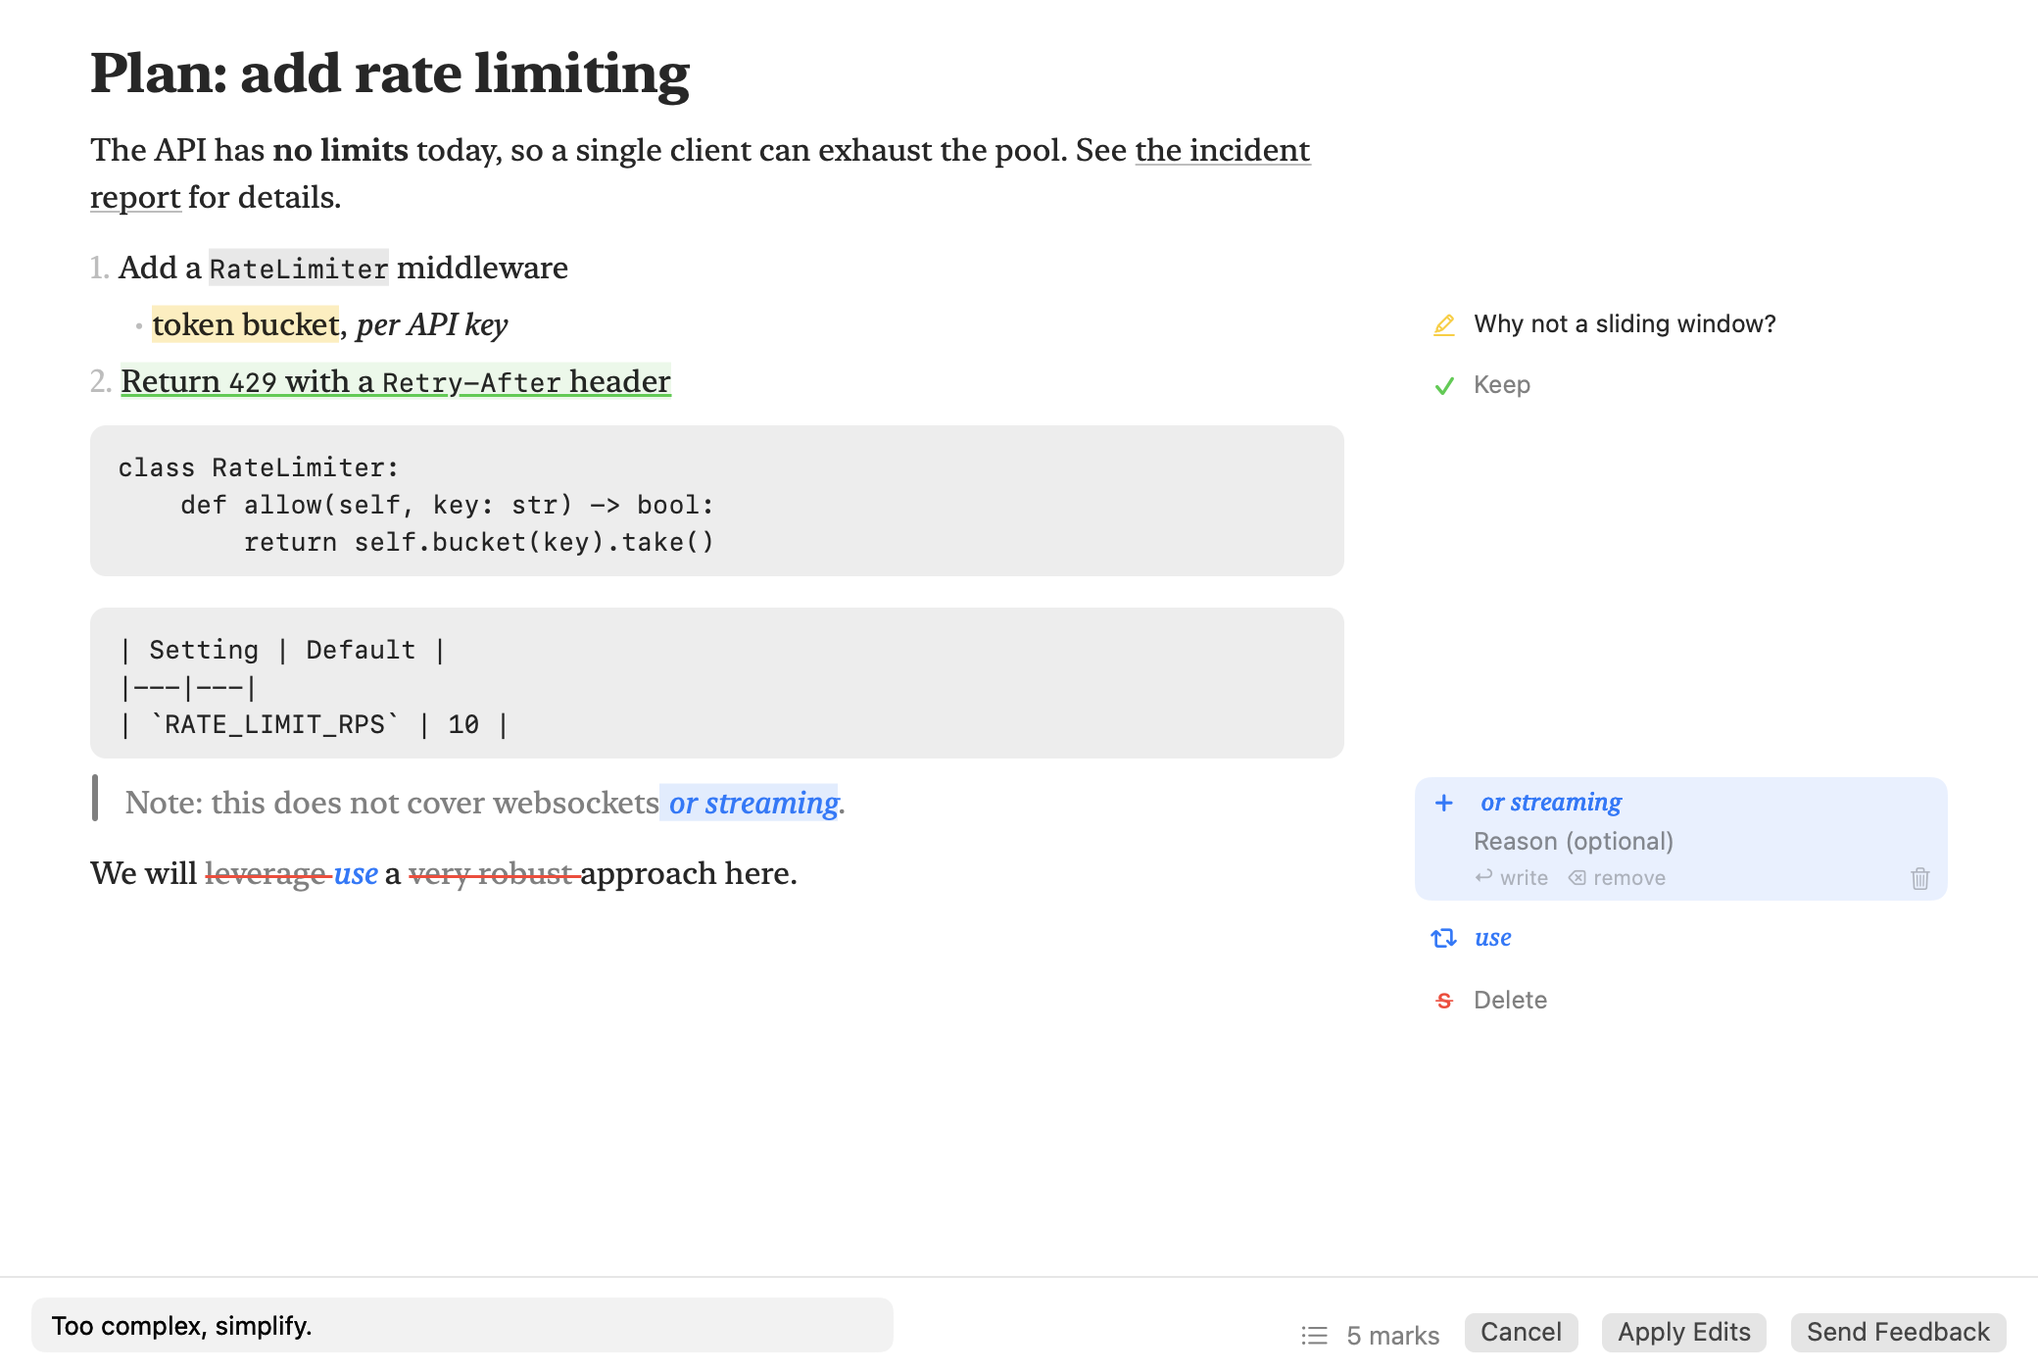
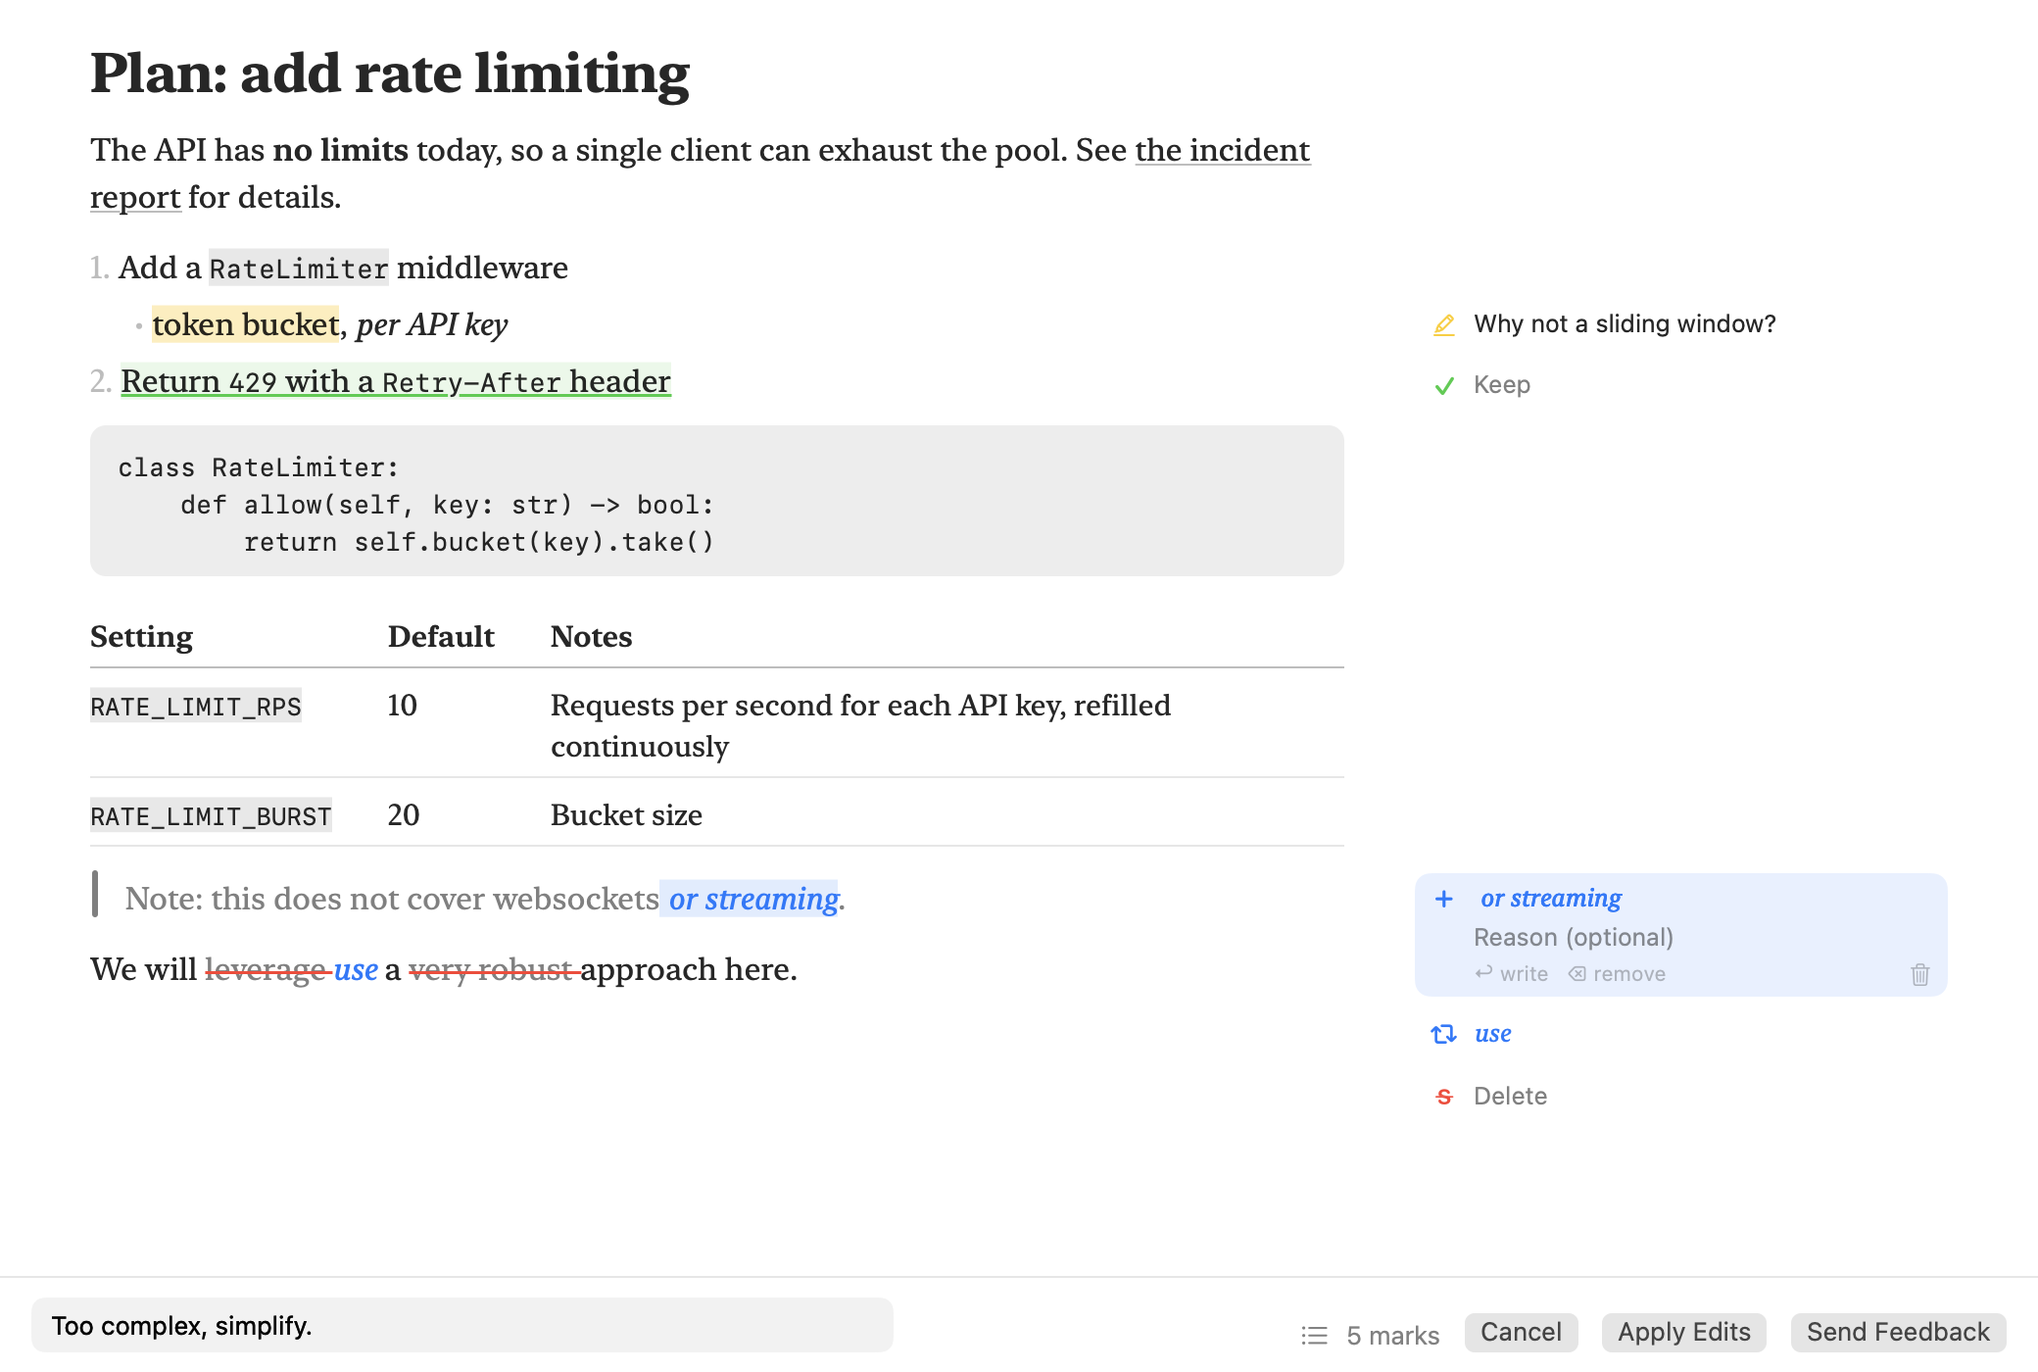
Lay out tables in columns
A table whose columns before the last are short is rendered as rows of
cells: bold header with a rule under it, hairlines between rows, and a
last column that wraps under its own start. Cells map back to their
source like any other text, so they can be marked. Wider tables are
still shown as written.

diff --git a/Packages/AnnotatorKit/Sources/AnnotatorUI/TextStyler.swift b/Packages/AnnotatorKit/Sources/AnnotatorUI/TextStyler.swift
@@ -17,6 +17,8 @@ enum BlockDecoration: Equatable {
     case quote(depth: Int, trim: CGFloat)
     /// A thematic break, drawn as a rule.
     case rule
+    /// A table row, with a hairline under it unless it is the last. `indent` is the table's left edge.
+    case tableRow(header: Bool, last: Bool, indent: CGFloat)
 }
 
 /// Builds what the text view shows from the rendered document and the marks.
@@ -26,13 +28,18 @@ enum TextStyler {
         let document = layout.document
         let result = NSMutableAttributedString()
 
-        for segment in document.segments {
+        var tableCells: [TableCell] = []
+        for (index, segment) in document.segments.enumerated() {
             let start = result.length
             result.append(NSAttributedString(string: segment.text, attributes: attributes(for: segment.style)))
             decoratePanel(segment, at: start, in: result)
+            if case .tableRow = segment.style.block {
+                tableCells.append(TableCell(segment: index, range: NSRange(location: start, length: result.length - start), style: segment.style, endsRow: segment.text == "\n"))
+            }
         }
 
         endQuoteBars(in: result)
+        layOutTables(tableCells, in: result)
 
         // Marks are applied in displayed offsets, before ghosts shift anything.
         for mark in marks {
@@ -131,7 +138,7 @@ enum TextStyler {
             attributes[.annotatorBlock] = BlockDecoration.rule
         case .paragraph, .heading:
             if style.quoteDepth > 0 { attributes[.annotatorBlock] = BlockDecoration.quote(depth: style.quoteDepth, trim: 0) }
-        case .codeBlock, .table, .html:
+        case .codeBlock, .table, .html, .tableRow:
             break
         }
         return attributes
@@ -152,6 +159,10 @@ enum TextStyler {
             return Theme.serif(size, weight: level <= 2 ? .bold : .semibold, italic: style.italic)
         case .codeBlock, .table, .html:
             return Theme.mono(13)
+        case .tableRow:
+            let size = Theme.bodySize - 1
+            if style.code { return Theme.mono(size - 2.5, weight: style.bold ? .semibold : .regular) }
+            return Theme.serif(size, weight: style.bold ? .semibold : .regular, italic: style.italic)
         case .paragraph, .thematicBreak:
             if style.code { return Theme.mono(Theme.bodySize - 2.5, weight: style.bold ? .semibold : .regular) }
             return Theme.serif(Theme.bodySize, weight: style.bold ? .semibold : .regular, italic: style.italic)
@@ -199,10 +210,83 @@ enum TextStyler {
         case .thematicBreak:
             paragraph.paragraphSpacing = 12
             paragraph.paragraphSpacingBefore = 4
-        case .paragraph:
+        case .paragraph, .tableRow:
+            // A table row gets its columns once the whole table is known.
             break
         }
         return paragraph
+    }
+
+    // MARK: - Tables
+
+    private struct TableCell {
+        var segment: Int
+        var range: NSRange
+        var style: SegmentStyle
+        var endsRow: Bool
+    }
+
+    private static let columnGap: CGFloat = 28
+    private static let rowPadding: CGFloat = 7
+
+    /// Gives each table its columns: a tab stop where each column starts, as wide
+    /// as its widest cell, with the last column wrapping under its own start.
+    private static func layOutTables(_ cells: [TableCell], in result: NSMutableAttributedString) {
+        // Segments of one table follow each other without a gap.
+        var tables: [[TableCell]] = []
+        for cell in cells {
+            if let last = tables.last?.last, last.segment + 1 == cell.segment {
+                tables[tables.count - 1].append(cell)
+            } else {
+                tables.append([cell])
+            }
+        }
+
+        for table in tables {
+            var rows: [[TableCell]] = [[]]
+            for cell in table {
+                rows[rows.count - 1].append(cell)
+                if cell.endsRow { rows.append([]) }
+            }
+            rows.removeAll(where: \.isEmpty)
+            guard let first = rows.first?.first else { continue }
+
+            var widths: [CGFloat] = []
+            for row in rows {
+                var rowWidths: [Int: CGFloat] = [:]
+                for cell in row {
+                    guard let column = cell.style.tableColumn else { continue }
+                    rowWidths[column, default: 0] += ceil(result.attributedSubstring(from: cell.range).size().width)
+                }
+                for (column, width) in rowWidths {
+                    while widths.count <= column { widths.append(0) }
+                    widths[column] = max(widths[column], width)
+                }
+            }
+            guard !widths.isEmpty else { continue }
+
+            let indent = blockIndent(for: first.style)
+            var starts: [CGFloat] = [indent]
+            for width in widths.dropLast() { starts.append((starts.last ?? indent) + width + columnGap) }
+
+            for (index, row) in rows.enumerated() {
+                guard let start = row.first?.range.location, let end = row.last.map({ NSMaxRange($0.range) }) else { continue }
+                let isLast = index == rows.count - 1
+                let isHeader: Bool = { if case .tableRow(let header) = row[0].style.block { return header } else { return false } }()
+
+                let paragraph = NSMutableParagraphStyle()
+                paragraph.firstLineHeadIndent = indent
+                paragraph.headIndent = starts.last ?? indent
+                paragraph.tabStops = starts.dropFirst().map { NSTextTab(textAlignment: .left, location: $0) }
+                paragraph.lineSpacing = 3
+                paragraph.paragraphSpacingBefore = rowPadding + (index == 0 ? 4 : 0)
+                paragraph.paragraphSpacing = rowPadding + (isLast ? 12 : 0)
+
+                let range = NSRange(location: start, length: end - start)
+                result.addAttribute(.paragraphStyle, value: paragraph, range: range)
+                result.addAttribute(.annotatorBlock, value: BlockDecoration.tableRow(header: isHeader, last: isLast, indent: indent), range: range)
+            }
+        }
     }
 
     /// The bar beside a quotation runs unbroken from paragraph to paragraph, and

diff --git a/Packages/AnnotatorKit/Tests/AnnotatorCoreTests/MarkdownRendererTests.swift b/Packages/AnnotatorKit/Tests/AnnotatorCoreTests/MarkdownRendererTests.swift
@@ -220,13 +220,58 @@ struct MarkdownRendererTests {
         #expect(sourceSpan(behind: "second", in: document) == span(of: "second", in: source))
     }
 
-    @Test func tablesAreShownAsWritten() {
-        let source = "Intro.\n\n| Name | Role |\n|---|---|\n| Ada | Engineer |\n\nOutro.\n"
+    @Test func tablesAreLaidOutInColumns() {
+        let source = "Intro.\n\n| Name | Role |\n|---|---|\n| Ada | **Lead** engineer |\n| Bo | Designer |\n\nOutro.\n"
         let document = MarkdownRenderer.render(source)
-        #expect(document.text == "Intro.\n| Name | Role |\n|---|---|\n| Ada | Engineer |\nOutro.")
+        #expect(document.text == "Intro.\nName\tRole\nAda\tLead engineer\nBo\tDesigner\nOutro.")
         expectFaithfulMapping(document)
-        #expect(document.segments.first { $0.text.hasPrefix("| Name") }?.style.block == .table)
-        #expect(sourceSpan(behind: "Engineer", in: document) == span(of: "Engineer", in: source))
+
+        let header = document.segments.first { $0.text == "Name" }
+        #expect(header?.style.block == .tableRow(header: true))
+        #expect(header?.style.bold == true)
+        #expect(header?.style.tableColumn == 0)
+        let cell = document.segments.first { $0.text == " engineer" }
+        #expect(cell?.style.block == .tableRow(header: false))
+        #expect(cell?.style.tableColumn == 1)
+        // The tab between cells is not part of the source.
+        #expect(document.segments.first { $0.text == "\t" }?.source == nil)
+
+        #expect(sourceSpan(behind: "Designer", in: document) == span(of: "Designer", in: source))
+        #expect(sourceText(behind: "Lead", in: document) == "**Lead**")
+        #expect(sourceSpan(behind: "Outro", in: document) == span(of: "Outro", in: source))
+    }
+
+    @Test func equalCellsMapToTheirOwnPlace() {
+        let source = "| Key | Old | New |\n|---|---|---|\n| a | yes | yes |\n| b | yes | no |\n"
+        let document = MarkdownRenderer.render(source)
+        #expect(document.text == "Key\tOld\tNew\na\tyes\tyes\nb\tyes\tno")
+        for occurrence in 1...3 {
+            #expect(sourceSpan(behind: "yes", in: document, occurrence: occurrence) == span(of: "yes", in: source, occurrence: occurrence))
+        }
+    }
+
+    @Test func emptyCellsKeepTheirColumn() {
+        let source = "| A | B | C |\n|---|---|---|\n| 1 |  | 3 |\n"
+        let document = MarkdownRenderer.render(source)
+        #expect(document.text == "A\tB\tC\n1\t\t3")
+        #expect(document.segments.first { $0.text == "3" }?.style.tableColumn == 2)
+    }
+
+    @Test func aLongLastColumnStillFits() {
+        let long = "A much longer explanation that will need to wrap over several lines in the last column."
+        let source = "| Topic | Finding |\n|---|---|\n| Hook timeout | \(long) |\n"
+        let document = MarkdownRenderer.render(source)
+        #expect(document.text == "Topic\tFinding\nHook timeout\t\(long)")
+        expectFaithfulMapping(document)
+    }
+
+    @Test func tablesTooWideForColumnsAreShownAsWritten() {
+        let wide = "a fairly long cell of text here"
+        let source = "Intro.\n\n| One | Two | Three |\n|---|---|---|\n| \(wide) | \(wide) | x |\n\nOutro.\n"
+        let document = MarkdownRenderer.render(source)
+        #expect(document.text == "Intro.\n| One | Two | Three |\n|---|---|---|\n| \(wide) | \(wide) | x |\nOutro.")
+        expectFaithfulMapping(document)
+        #expect(document.segments.first { $0.text.hasPrefix("| One") }?.style.block == .table)
         #expect(sourceSpan(behind: "Outro", in: document) == span(of: "Outro", in: source))
     }
 
@@ -337,13 +382,14 @@ struct MarkdownRendererTests {
 
         // Everything the reader sees, except list markers and block breaks, comes from the source.
         for segment in document.segments where segment.source == nil {
-            #expect(segment.text == "\n" || segment.style.isListMarker, "unmapped \(segment.text.debugDescription)")
+            #expect(segment.text == "\n" || segment.text == "\t" || segment.style.isListMarker, "unmapped \(segment.text.debugDescription)")
         }
         for phrase in ["no limits", "the incident report", "RateLimiter", "per API key", "429",
                        "unit tests for the bucket", "return self.bucket(key).take()", "websockets & streaming"] {
             #expect(sourceText(behind: phrase, in: document)?.contains(phrase) == true, "\(phrase)")
         }
         #expect(sourceText(behind: "per API key", in: document) == "*per API key*")
-        #expect(sourceSpan(behind: "RATE_LIMIT_RPS", in: document, occurrence: 2) == span(of: "RATE_LIMIT_RPS", in: source, occurrence: 2))
+        // The second one is inline code in a table cell: selecting all of it takes its backticks.
+        #expect(sourceSpan(behind: "RATE_LIMIT_RPS", in: document, occurrence: 2) == span(of: "`RATE_LIMIT_RPS`", in: source, occurrence: 2))
     }
 }

diff --git a/Packages/AnnotatorKit/Sources/AnnotatorCore/MarkdownRenderer.swift b/Packages/AnnotatorKit/Sources/AnnotatorCore/MarkdownRenderer.swift
@@ -83,12 +83,59 @@ private struct Builder {
             let style = context.style(.thematicBreak)
             added("———", style)
             lineBreak(style)
-        case is Table:
-            raw(node, span, context.style(.table))
+        case let table as Table:
+            if Self.fitsInColumns(table) {
+                rows(of: table, context, limit)
+            } else {
+                raw(node, span, context.style(.table))
+            }
         default:
             raw(node, span, context.style(.html))
         }
         if let span { cursor = max(cursor, min(span.end, units.length)) }
+    }
+
+    // MARK: - Tables
+
+    /// Columns are laid out with tab stops, so only the last one can wrap. A
+    /// table fits when the columns before the last are short enough to leave it room.
+    private static func fitsInColumns(_ table: Table) -> Bool {
+        let rows = [Array(table.head.cells)] + table.body.rows.map { Array($0.cells) }
+        let columns = rows.map(\.count).max() ?? 0
+        guard columns > 0 else { return false }
+        var widths = [Int](repeating: 0, count: columns)
+        for row in rows {
+            for (index, cell) in row.enumerated() {
+                guard cell.colspan == 1, cell.rowspan == 1 else { return false }
+                widths[index] = max(widths[index], cell.plainText.count)
+            }
+        }
+        return widths.dropLast().reduce(0, +) + 3 * (columns - 1) <= 46
+    }
+
+    /// One line per row, with a tab between cells.
+    private mutating func rows(of table: Table, _ context: Context, _ limit: Int) {
+        var all: [(cells: [Table.Cell], range: SourceRange?, header: Bool)] = [(Array(table.head.cells), table.head.range, true)]
+        all += table.body.rows.map { (Array($0.cells), $0.range, false) }
+
+        for row in all {
+            if let span = lines.span(of: row.range), span.start > cursor { cursor = span.start }
+            var style = context.style(.tableRow(header: row.header))
+            for (index, cell) in row.cells.enumerated() {
+                style.tableColumn = nil
+                if index > 0 { added("\t", style) }
+                style.tableColumn = index
+                var cellStyle = style
+                cellStyle.bold = row.header
+                // A cell's text is looked for inside the cell, so equal cells do not swap places.
+                let cellSpan = lines.span(of: cell.range)
+                if let cellSpan, cellSpan.start > cursor { cursor = cellSpan.start }
+                inlines(of: cell, cellStyle, min(cellSpan?.end ?? limit, limit))
+                if let cellSpan { cursor = max(cursor, min(cellSpan.end, limit)) }
+            }
+            style.tableColumn = nil
+            lineBreak(style)
+        }
     }
 
     private mutating func listItem(_ item: ListItem, marker: String, _ context: Context) {

diff --git a/Packages/AnnotatorKit/Sources/AnnotatorUI/BlockFragment.swift b/Packages/AnnotatorKit/Sources/AnnotatorUI/BlockFragment.swift
@@ -51,6 +51,9 @@ final class BlockFragment: NSTextLayoutFragment {
             return CGRect(x: left, y: 0, width: CGFloat(depth) * 18, height: frame.height - trim)
         case .rule:
             return CGRect(x: left, y: 0, width: containerWidth, height: frame.height)
+        case .tableRow(_, let last, let indent):
+            // The last row's frame also holds the space under the table.
+            return CGRect(x: left + indent, y: 0, width: containerWidth - indent, height: frame.height - (last ? 12 : 0))
         }
     }
 
@@ -77,6 +80,11 @@ final class BlockFragment: NSTextLayoutFragment {
         case .rule:
             context.setFillColor(NSColor.separatorColor.cgColor)
             context.fill(CGRect(x: rect.minX, y: rect.midY.rounded(), width: rect.width, height: 1))
+        case .tableRow(let header, _, _):
+            // A firmer line under the header, hairlines between rows, one to close the table.
+            let color = header ? NSColor.tertiaryLabelColor : NSColor.separatorColor
+            context.setFillColor(color.cgColor)
+            context.fill(CGRect(x: rect.minX, y: rect.maxY.rounded() - 1, width: rect.width, height: 1))
         }
         context.restoreGState()
         super.draw(at: point, in: context)

diff --git a/Packages/AnnotatorKit/Sources/AnnotatorCore/RenderedDocument.swift b/Packages/AnnotatorKit/Sources/AnnotatorCore/RenderedDocument.swift
@@ -5,7 +5,10 @@ public struct SegmentStyle: Equatable, Sendable {
         case paragraph
         case heading(Int)
         case codeBlock(language: String?)
+        /// A table shown as it is written, because it is too wide to lay out.
         case table
+        /// One row of a table laid out in columns.
+        case tableRow(header: Bool)
         case html
         case thematicBreak
     }
@@ -20,6 +23,8 @@ public struct SegmentStyle: Equatable, Sendable {
     public var listDepth = 0
     /// A bullet, number or task box the renderer added.
     public var isListMarker = false
+    /// The column a table cell's text belongs to. Nil for the separators between cells.
+    public var tableColumn: Int?
 
     public init() {}
 }

diff --git a/Packages/AnnotatorKit/Tests/AnnotatorUITests/ReviewWindowTests.swift b/Packages/AnnotatorKit/Tests/AnnotatorUITests/ReviewWindowTests.swift
@@ -25,9 +25,10 @@ struct ReviewWindowTests {
             return self.bucket(key).take()
     ```
 
-    | Setting | Default |
-    |---|---|
-    | `RATE_LIMIT_RPS` | 10 |
+    | Setting | Default | Notes |
+    |---|---|---|
+    | `RATE_LIMIT_RPS` | 10 | Requests per second for each API key, refilled continuously |
+    | `RATE_LIMIT_BURST` | 20 | Bucket size |
 
     > Note: this does not cover websockets.
 
